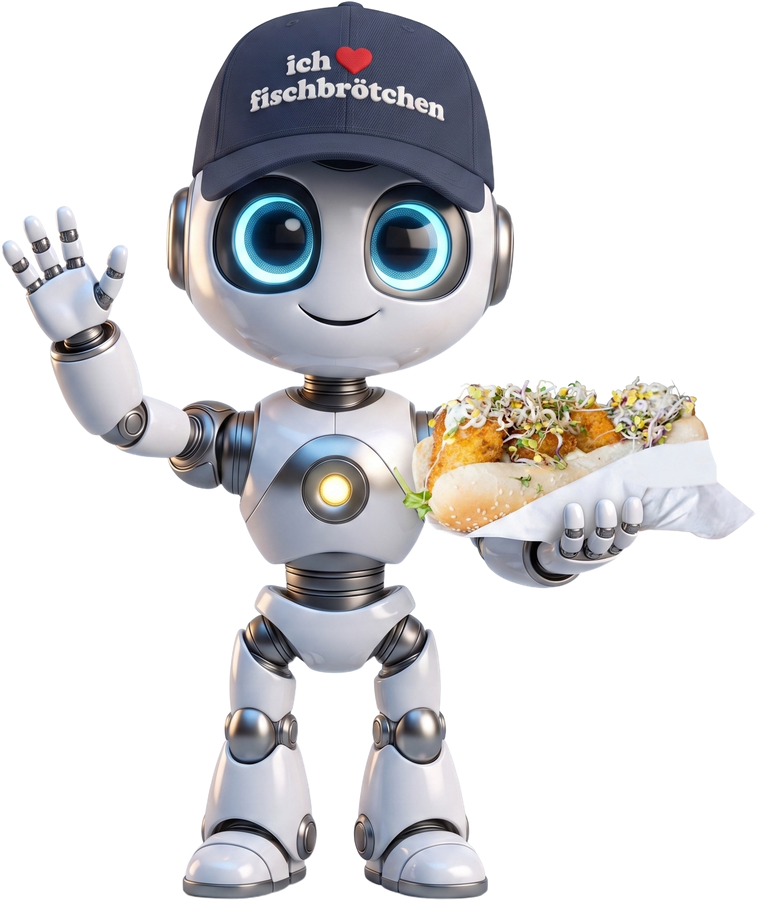
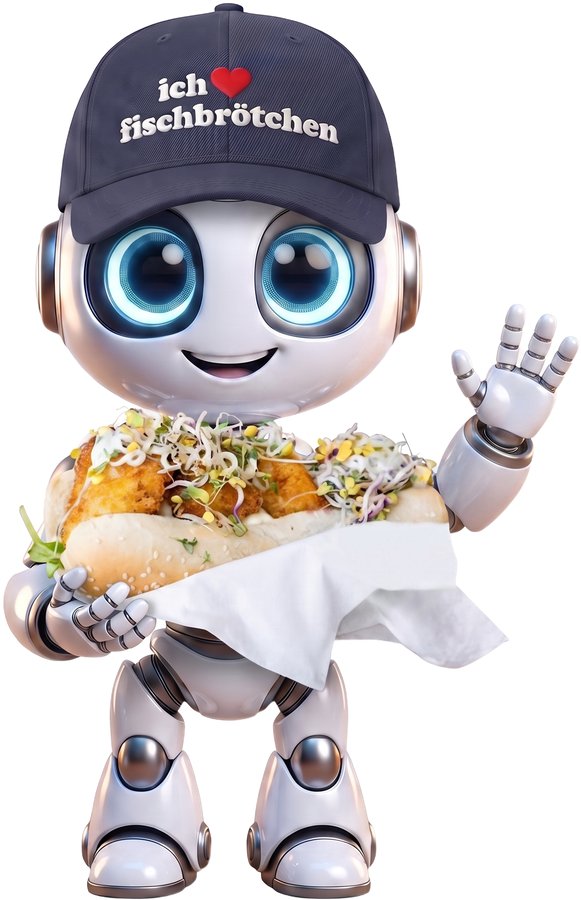
feat: rebuild the robot scenes with Nano Banana Pro and real reference photos
The model id nano_banana_2 was silently downgraded to nano_banana_flash by the
server, which is why the first set looked cheap. Switched to nano_banana_pro.

New workflow: build the character once (robot plus cap), then once more with
the fish roll, and use those two as the reference for everything after, so the
character stays identical. Locations now come from real Wikimedia photographs
passed in as a second reference instead of being invented.

And the robot does something instead of posing: figurehead on the bow of the
Passat at sunset, breakdance freeze in front of the MuK, binoculars on a beach
chair at Travemünde, pointing up at the Holstentor.

diff --git a/index.html b/index.html
@@ -1200,10 +1200,10 @@ body.chrome-aus .chrome { opacity: 0; }
     <h2 class="headline">Diese vier sind heute früh <span class="schimmer">entstanden.</span></h2>
     <div class="reihe wachsen" style="gap:44px;margin-top:6px;align-items:stretch;">
       <div class="galerie fragment fade-up" style="flex:1;">
-        <figure><img src="assets/images/robo/holstentor.jpg" alt="Roboter vor dem Holstentor"><figcaption>Holstentor</figcaption></figure>
-        <figure><img src="assets/images/robo/passat.jpg" alt="Roboter an Bord der Passat"><figcaption>Passat, Travemünde</figcaption></figure>
-        <figure><img src="assets/images/robo/strandkorb.jpg" alt="Roboter im Strandkorb"><figcaption>Strand Travemünde</figcaption></figure>
-        <figure><img src="assets/images/robo/muk.jpg" alt="Roboter vor der MuK"><figcaption>MuK</figcaption></figure>
+        <figure><img src="assets/images/robo/holstentor.jpg" alt="Roboter zeigt auf das Holstentor"><figcaption>Holstentor</figcaption></figure>
+        <figure><img src="assets/images/robo/passat.jpg" alt="Roboter am Bug der Passat"><figcaption>Passat, Travemünde</figcaption></figure>
+        <figure><img src="assets/images/robo/strandkorb.jpg" alt="Roboter mit Fernglas auf einem Strandkorb"><figcaption>Strand Travemünde</figcaption></figure>
+        <figure><img src="assets/images/robo/muk.jpg" alt="Roboter beim Breakdance vor der MuK"><figcaption>Vor der MuK</figcaption></figure>
       </div>
       <div class="spalte" style="flex:0 0 560px;gap:30px;justify-content:center;">
         <div class="fragment fade-up">
